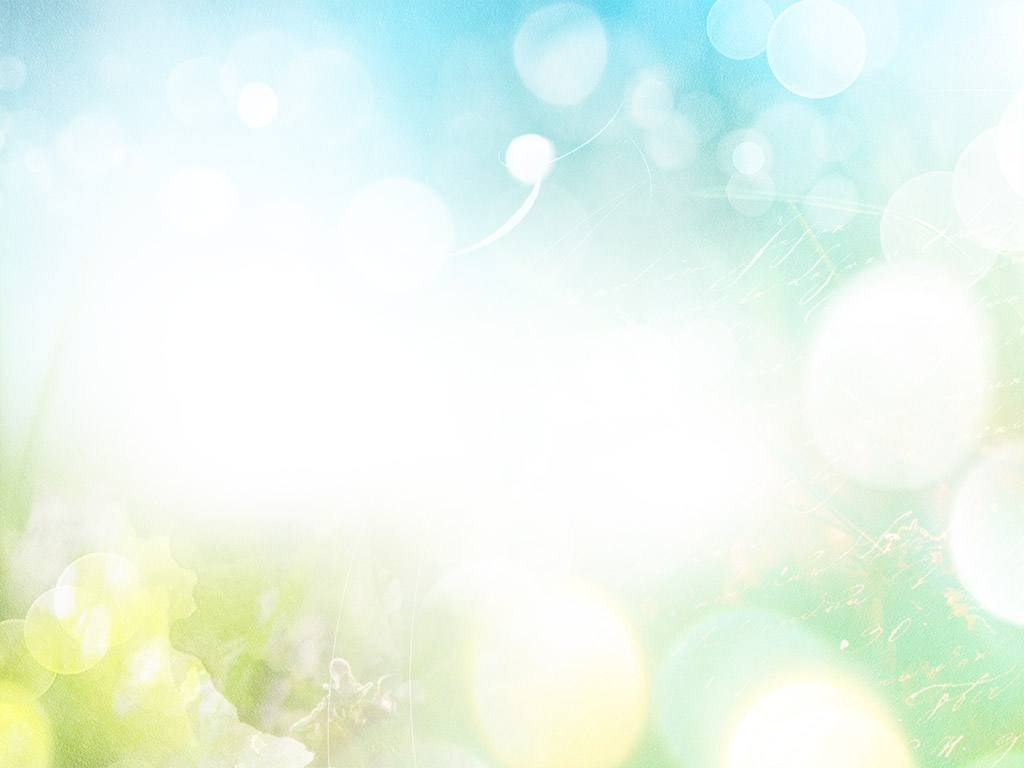
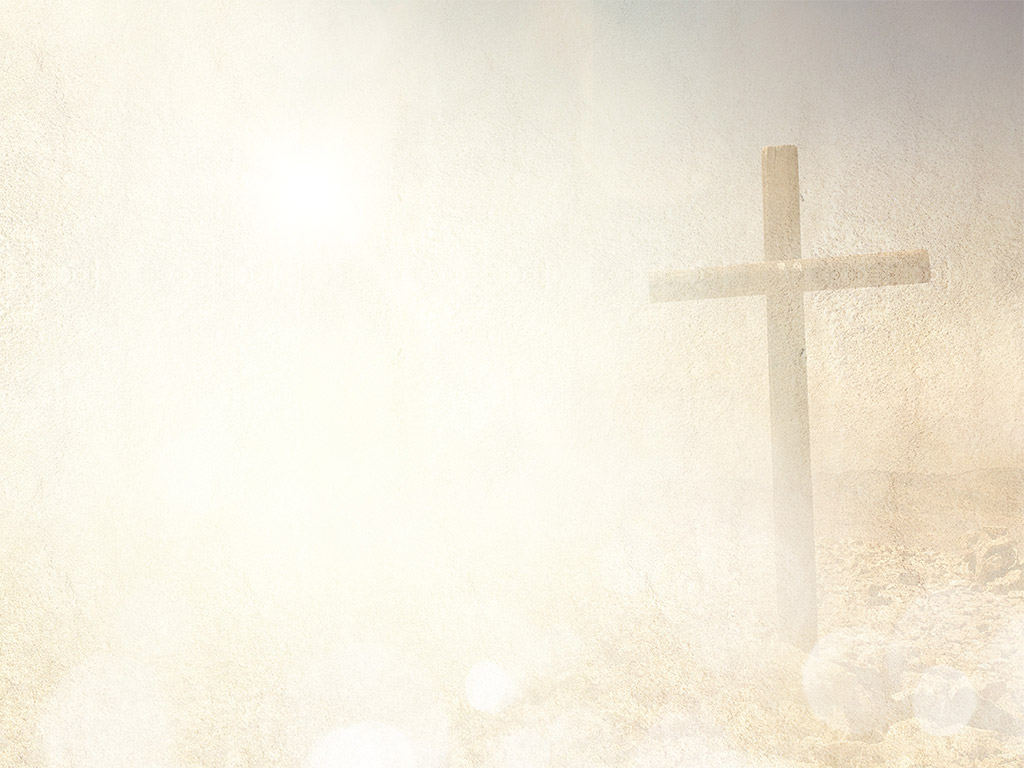
Beta: m3.2, 3.3, 6.1 (100%)
- completed updates to weeks pages and article pages
- updated CSS to match design
- updated App assets

diff --git a/lib/css/app.css b/lib/css/app.css
@@ -140,7 +140,7 @@ body {
 	/* headerTitle */
 	.pageHeader .headerTitle {
 		display:block; width:auto; height:auto; margin:0 180px 0 120px; padding:0; overflow:hidden;
-		color:#b37cb1; white-space:nowrap; text-overflow:ellipsis; text-transform:uppercase;
+		color:#b37cb1; white-space:nowrap; text-overflow:ellipsis;
 		font-family:'LeagueGothic',sans-serif; font-size:52px; font-weight:400; line-height:165px; }
 
 
@@ -161,12 +161,12 @@ body {
 	/* navItem */
 	.pageNav .navItem {
 		display:block; position:absolute; left:0; width:35px; height:35px; margin:0; padding:0; overflow:hidden;
-		color:rgba(255,255,255,0.8); background:rgba(19,54,82,0.3); 
+		color:rgba(255,255,255,0.8); background:rgba(92,87,76,0.3); 
 		/*border-radius*/-webkit-border-radius:50%; border-radius:50%;
 		/*background-clip*/-moz-background-clip:padding; -webkit-background-clip:padding; background-clip:padding-box; }
 		
 	/* custom */
-	.pageNav .navItem.invert		{ color:rgba(19,54,82,0.3); background:none;  }
+	.pageNav .navItem.invert		{ color:rgba(92,87,76,0.3); background:none;  }
 	
 	.pageNav .navItem#articlePrev 	{ top:0; }
 	.pageNav .navItem#articleAudio 	{ display:none; /*top:50%; margin-top:-17px;*/ }
@@ -180,8 +180,8 @@ body {
 			font-size:26px; }
 		
 	/* interaction */
-	.pageNav .navItem.active 			{ color:#fff; background:rgba(19,54,82,0.8); }
-	.pageNav .navItem.invert.active 	{ color:rgba(19,54,82,0.8); background:none; }
+	.pageNav .navItem.active 			{ color:#fff; background:rgba(92,87,76,0.8); }
+	.pageNav .navItem.invert.active 	{ color:rgba(92,87,76,0.8); background:none; }
 	
 	.pageNav .navItem.disabled,
 	.pageNav .navItem.disabled.active 	{ pointer-events:none; cursor:default; }
@@ -304,7 +304,7 @@ body {
 	.contentView h5 			{ font-size:22px; font-weight:400; line-height:1.5em; margin:0 0 1em 0; padding:0 0 0 0; }
 	
 	.contentView h1,
-	.contentView h2				{ color:#a483b6; font-family:'LeagueGothic',sans-serif; }
+	.contentView h2				{ color:#b37cb1; font-family:'LeagueGothic',sans-serif; }
 	
 	.contentView h1.deco		{ 
 		display:inline-block; margin:1px 0 0.8em 0;
@@ -312,8 +312,8 @@ body {
 		font-family:'alegreya',serif; font-size:28px; font-style:italic; line-height:1.6em; }
 		
 	.contentView h1.landing		{ 
-		margin:130px 0 25px 0; text-transform:uppercase;
-		font-size:80px; line-height:0.9em; }
+		margin:130px 0 25px 0;
+		font-size:74px; line-height:0.9em; }
 
 	/* text */
 	.contentView b,
@@ -730,9 +730,9 @@ section,
 				#pgWeeks .sectionWrapper [data-role="section"]:nth-child(5):before { background-image:url(../img/img-letter-5@1x.png); }		
 			
 			/* -------------------------------------------------------------------------- */
-			/* flower */
-			#pgWeeks .sectionWrapper [data-role="section"] .flower { 
-				display:block; position:absolute; bottom:-40px; right:90px; width:550px; height:700px; margin:0; padding:0;
+			/* overlay */
+			#pgWeeks .sectionWrapper [data-role="section"] .overlay { 
+				display:block; position:absolute; top:0; left:0; width:100%; height:100%; margin:0; padding:0;
 				opacity:0;
 				/*transition*/
 				-webkit-transition:opacity 0.3s ease-in-out;
@@ -767,8 +767,8 @@ section,
 /* -------------------------------------------------------------------------- */
 /* landing */
 
-/* show flower */
-#pgWeeks.landing .sectionWrapper [data-role="section"] .flower { opacity:1; }
+/* show overlay */
+#pgWeeks.landing .sectionWrapper [data-role="section"] .overlay { opacity:1; }
 
 /* hide pageHeader */
 #pgWeeks.landing .pageHeader { 
@@ -788,28 +788,28 @@ section,
 	#pgWeeks [data-role="articleContent"].padded { padding:0 0 0 120px; }
 		
 		/* h1 */
-		#pgWeeks [data-role="articleContent"] h1 { display:none; }
+		#pgWeeks [data-role="articleContent"] h1 { }
 		
 		/* img */
 		#pgWeeks [data-role="articleContent"] img.h1 { 
-			display:block; width:370px; height:285px; margin:45px 0 0 -110px; }
+			display:none; width:370px; height:285px; margin:45px 0 0 -110px; }
 		
 		/* articleNav */		
 		#pgWeeks [data-role="articleContent"] .articleNav,
 		#pgWeeks [data-role="articleContent"] .articleNav li { 
 			width:auto; height:auto; margin:0; padding:0;
-			color:#2e6472; list-style:none;
+			color:#494641; list-style:none;
 			font-size:22px; line-height:1.33em; font-style:italic; }
 		
 		/* top gap */
 		#pgWeeks [data-role="articleContent"] .articleNav 				{ margin-top:40px; }
-		#pgWeeks [data-role="articleContent"] .articleNav#articleNav5 	{ margin-top:-40px; }
+		/*#pgWeeks [data-role="articleContent"] .articleNav#articleNav5 	{ margin-top:-40px; }*/
 		
 			/* a */
 			#pgWeeks [data-role="articleContent"] .articleNav a { 
-				color:#6e288f!important; text-decoration:none; }
+				color:#494641!important; text-decoration:none; }
 			#pgWeeks [data-role="articleContent"] .articleNav a.active { 
-				color:#6e288f!important; text-decoration:underline; }
+				color:#494641!important; text-decoration:underline; }
 		
 		/* btnBottomFixed */
 		#pgWeeks [data-role="articleContent"] .btnBottomFixed {
@@ -818,8 +818,6 @@ section,
 /* -------------------------------------------------------------------------- */
 /* responsive - widescreen */
 @media only screen and (min-aspect-ratio: 42/30) {
-	/* adjust flower */
-	#pgWeeks .sectionWrapper [data-role="section"] .flower { bottom:-60px; right:13%; width:auto; height:100%; }
 	/* hide links */
 	#pgWeeks [data-role="articleContent"] ol.articleNav { display:none; }
 }

diff --git a/weeks.html b/weeks.html
@@ -2,7 +2,7 @@
 	<div class="sectionScroller">
 		<div class="sectionWrapper" data-role="wrapper">
 			<div data-role="section">
-				<img class="flower" src="lib/img/img-flower-1@1x.png" width="550" height="700" alt="" />
+				<img class="overlay" src="lib/img/bg-w1-landing@1x.jpg" width="1024" height="768" alt="" />
 				<div class="pageHeader" data-role="header">
 					<span class="headerTitle">In the Desert</span>
 				</div>
@@ -11,7 +11,7 @@
 				</div>
 			</div>
 			<div data-role="section">
-				<img class="flower" src="lib/img/img-flower-2@1x.png" width="550" height="700" alt="" />
+				<img class="overlay" src="lib/img/bg-w2-landing@1x.jpg" width="1024" height="768" alt="" />
 				<div class="pageHeader" data-role="header">
 					<span class="headerTitle">The Gift of Living Water</span>
 				</div>
@@ -20,7 +20,7 @@
 				</div>
 			</div>
 			<div data-role="section">
-				<img class="flower" src="lib/img/img-flower-3@1x.png" width="550" height="700" alt="" />
+				<img class="overlay" src="lib/img/bg-w3-landing@1x.jpg" width="1024" height="768" alt="" />
 				<div class="pageHeader" data-role="header">
 					<span class="headerTitle">Children of the Light</span>
 				</div>
@@ -29,7 +29,7 @@
 				</div>
 			</div>
 			<div data-role="section">
-				<img class="flower" src="lib/img/img-flower-4@1x.png" width="550" height="700" alt="" />
+				<img class="overlay" src="lib/img/bg-w4-landing@1x.jpg" width="1024" height="768" alt="" />
 				<div class="pageHeader" data-role="header">
 					<span class="headerTitle">Take up your Cross</span>
 				</div>
@@ -38,7 +38,7 @@
 				</div>
 			</div>
 			<div data-role="section">
-				<img class="flower" src="lib/img/img-flower-5@1x.png" width="550" height="700" alt="" />
+				<img class="overlay" src="lib/img/bg-w5-landing@1x.jpg" width="1024" height="768" alt="" />
 				<div class="pageHeader" data-role="header">
 					<span class="headerTitle">Drawn into Joy</span>
 				</div>

diff --git a/data/article-2-0.html b/data/article-2-0.html
@@ -1,8 +1,7 @@
 <article class="" data-role="article" data-week="2" data-index="0">
 	<div>
 		<div class="padded contentView" data-role="articleContent">
-			<img class="h1" src="lib/img/img-title-2.png" width="370" height="285" alt="" />
-			<h1 class="landing">The Gift of Living Water</h1>
+			<h1 class="landing">The Gift of<br />Living Water</h1>
 			<ol id="articleNav2" class="articleNav">
 				<li><a href="#" class="btnJumpArticle" data-role="button" data-target-article="1">2<sup>nd</sup> Sunday - Lent Year A<sup>1</sup></a></li>
 				<li><a href="#" class="btnJumpArticle" data-role="button" data-target-article="2">Genesis 12:1-4</a></li>

diff --git a/data/article-3-0.html b/data/article-3-0.html
@@ -1,8 +1,7 @@
 <article class="" data-role="article" data-week="3" data-index="0">
 	<div>
 		<div class="padded contentView" data-role="articleContent">
-			<img class="h1" src="lib/img/img-title-3.png" width="370" height="285" alt="" />
-			<h1 class="landing">Children of the Light</h1>
+			<h1 class="landing">Children<br />of the Light</h1>
 			<ol id="articleNav3" class="articleNav">
 				<li><a href="#" class="btnJumpArticle" data-role="button" data-target-article="1">4<sup>th</sup> Sunday - Lent Year A</a></li>
 				<li><a href="#" class="btnJumpArticle" data-role="button" data-target-article="2">1 Samuel 16:1, 6-7, 10-13</a></li>

diff --git a/data/article-4-0.html b/data/article-4-0.html
@@ -1,8 +1,7 @@
 <article class="" data-role="article" data-week="4" data-index="0">
 	<div>
 		<div class="padded contentView" data-role="articleContent">
-			<img class="h1" src="lib/img/img-title-4.png" width="370" height="285" alt="" />
-			<h1 class="landing">Take up your Cross</h1>
+			<h1 class="landing">Take up<br />your Cross</h1>
 			<ol id="articleNav4" class="articleNav">
 				<li><a href="#" class="btnJumpArticle" data-role="button" data-target-article="1">Passion Sunday - Year A<sup>1</sup></a></li>
 				<li><a href="#" class="btnJumpArticle" data-role="button" data-target-article="2">Isaiah 50:4-7</a></li>

diff --git a/data/article-5-0.html b/data/article-5-0.html
@@ -1,8 +1,7 @@
 <article class="" data-role="article" data-week="5" data-index="0">
 	<div>
 		<div class="padded contentView" data-role="articleContent">
-			<img class="h1" src="lib/img/img-title-5.png" width="370" height="285" alt="" />
-			<h1 class="landing">Drawn into Joy</h1>
+			<h1 class="landing">Drawn<br />into Joy</h1>
 			<ol id="articleNav5" class="articleNav">
 				<li><a href="#" class="btnJumpArticle" data-role="button" data-target-article="1">Holy Thursday</a></li>
 				<li><a href="#" class="btnJumpArticle" data-role="button" data-target-article="2">Exodus 12:1-8, 11-14</a></li>

diff --git a/data/article-1-0.html b/data/article-1-0.html
@@ -1,8 +1,7 @@
 <article class="" data-role="article" data-week="1" data-index="0">
 	<div>
 		<div class="padded contentView" data-role="articleContent">
-			<img class="h1" src="lib/img/img-title-1.png" width="370" height="285" alt="" />
-			<h1 class="landing">In the Desert</h1>
+			<h1 class="landing">In the<br />Desert</h1>
 			<ol id="articleNav1" class="articleNav">
 				<li><a href="#" class="btnJumpArticle" data-role="button" data-target-article="1">Ash Wednesday</a></li>
 				<li><a href="#" class="btnJumpArticle" data-role="button" data-target-article="2">Joel 2:12-18</a></li>
